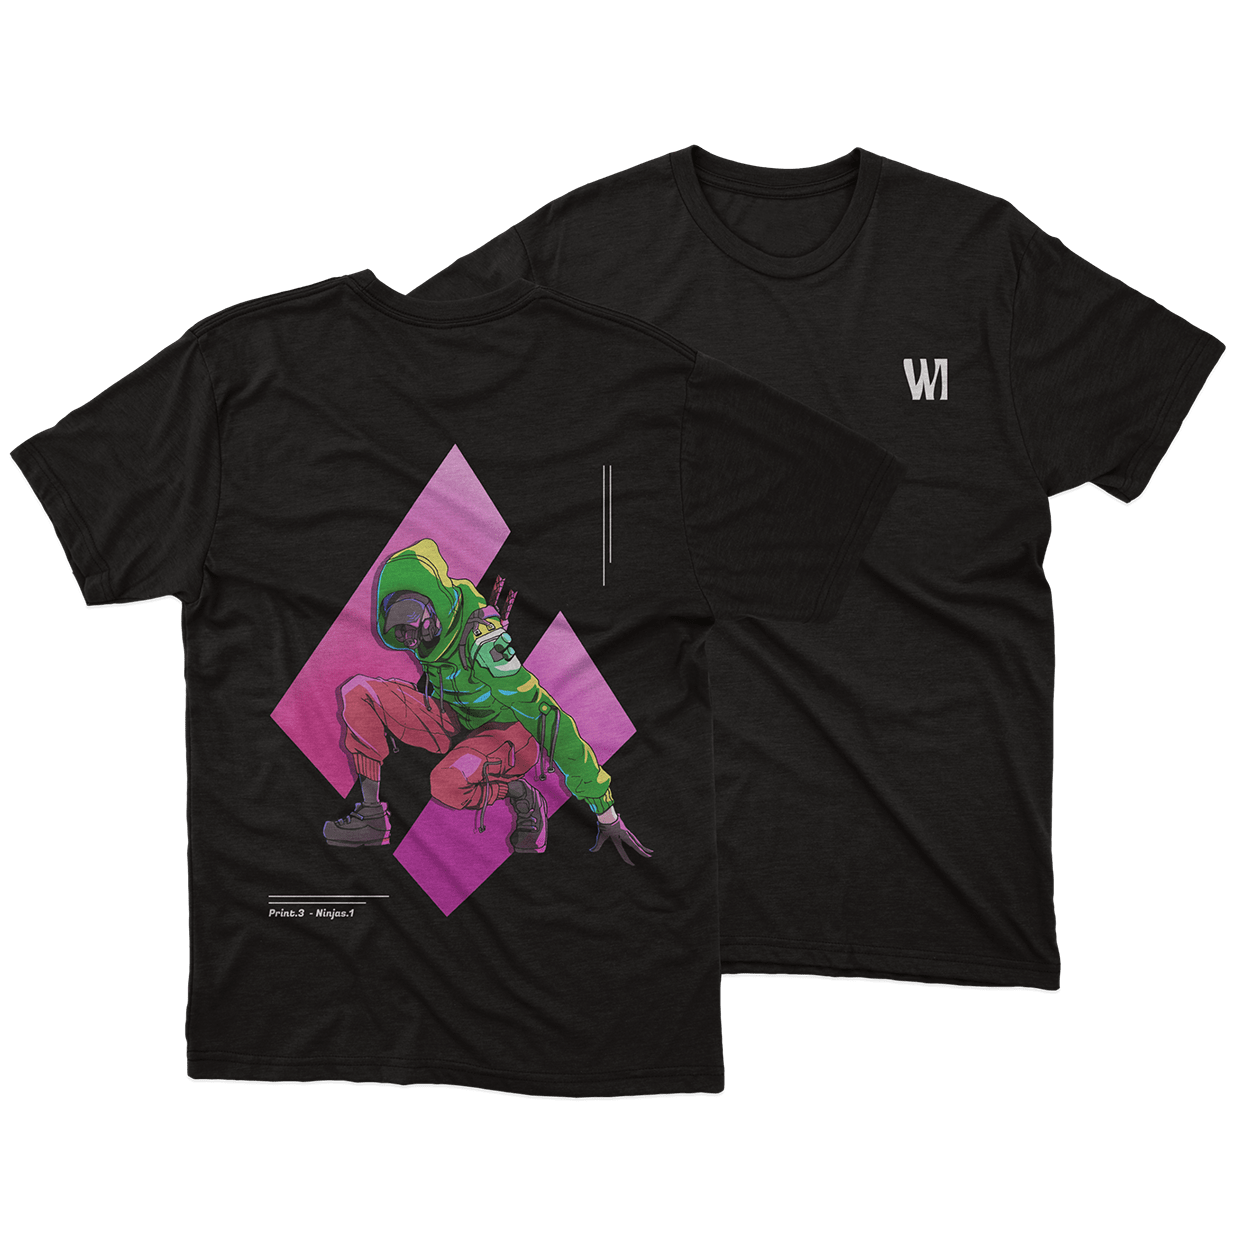
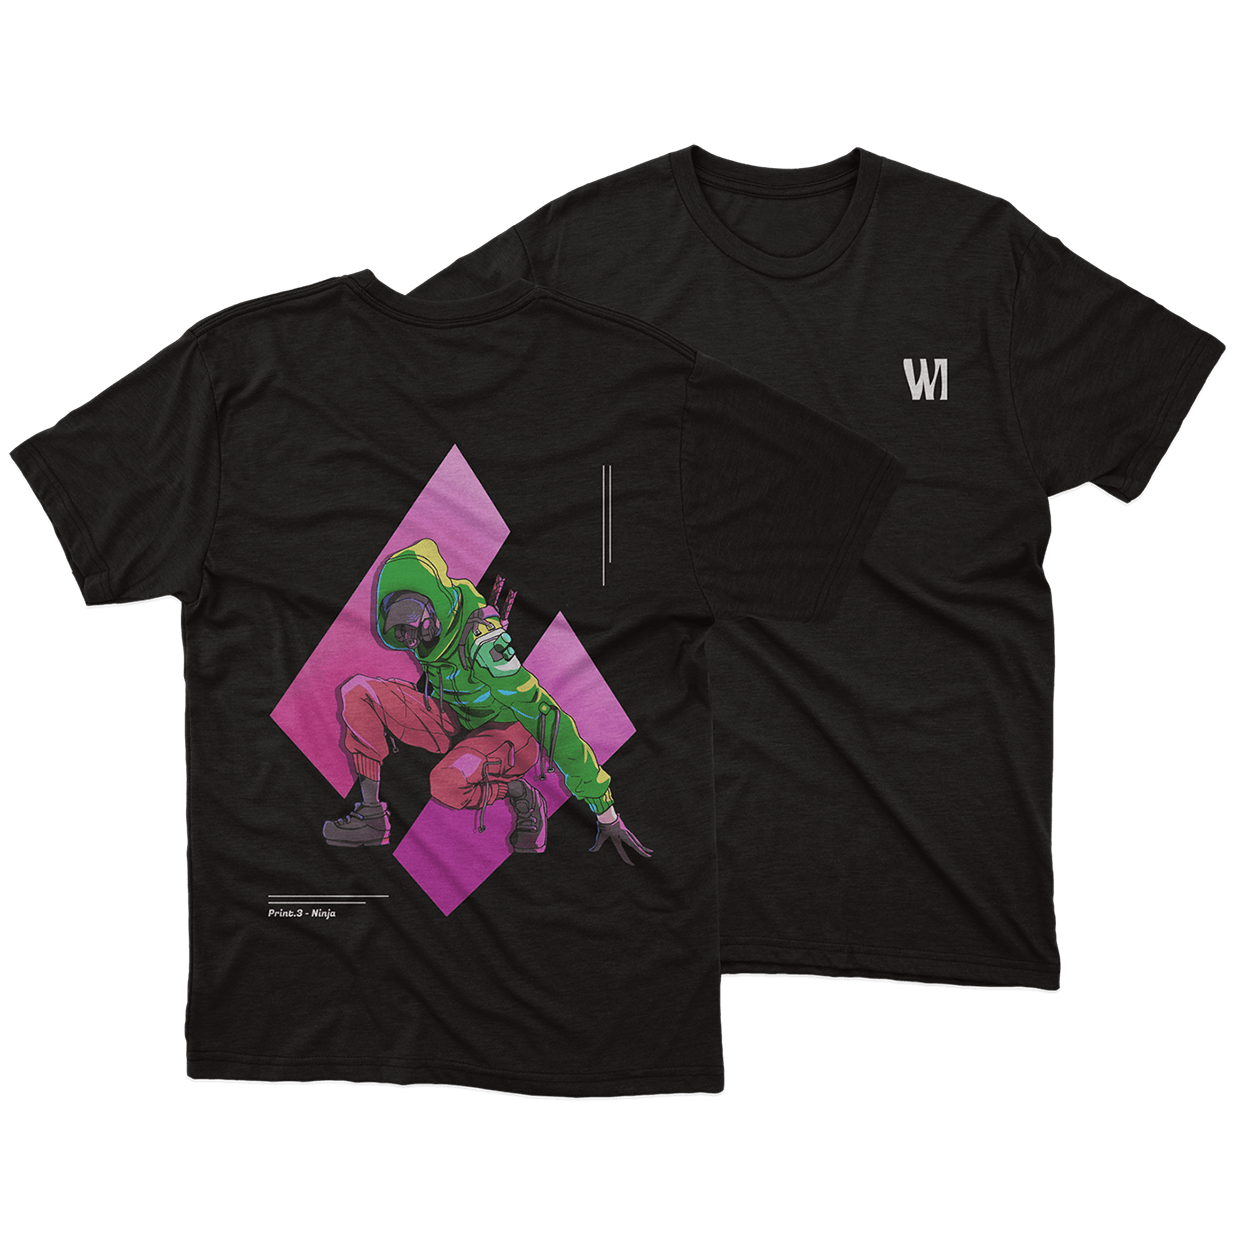
update products

Changed region(s): [[0.3368, 0.4903, 0.3981, 0.521], [0.2756, 0.6129, 0.3062, 0.6435], [0.245, 0.7355, 0.2756, 0.7661]]

diff --git a/src/pages/home.jsx b/src/pages/home.jsx
@@ -11,7 +11,7 @@ function Home() {
 
   const products = [
     {
-      name: 'Ninja Girl - print.1',
+      name: 'Print.1 - Red Circle',
       spesifications: {
         material: 'Cotton Combad 30s',
         color: 'Black, White',
@@ -19,14 +19,14 @@ function Home() {
       },
       tShirt:
         colorMode === 'dark'
-          ? process.env.PUBLIC_URL + '/images/black-ninja-girl-FB.png'
-          : process.env.PUBLIC_URL + '/images/white-ninja-girl-FB.png',
-      price: 'Rp 100.000,-',
-      discountedPrice: 'Rp 90.000,-',
+          ? process.env.PUBLIC_URL + '/images/black-red-circle-FB.png'
+          : process.env.PUBLIC_URL + '/images/white-red-circle-FB.png',
+      price: 'Rp 110.000,-',
+      discountedPrice: 'Rp 89.900,-',
       isDiscount: true,
     },
     {
-      name: 'Masker Girl - print.2',
+      name: 'Print.2 - Masker Girl',
       spesifications: {
         material: 'Cotton Combad 30s',
         color: 'Black, White',
@@ -36,12 +36,12 @@ function Home() {
         colorMode === 'dark'
           ? process.env.PUBLIC_URL + '/images/black-masker-girl-FB.png'
           : process.env.PUBLIC_URL + '/images/white-masker-girl-FB.png',
-      price: 'Rp 100.000,-',
-      discountedPrice: 'Rp 90.000,-',
+      price: 'Rp 110.000,-',
+      discountedPrice: 'Rp 89.900,-',
       isDiscount: true,
     },
     {
-      name: 'Ninja - print.3',
+      name: 'Print.3 - Ninja',
       spesifications: {
         material: 'Cotton Combad 30s',
         color: 'Black, White',
@@ -51,8 +51,8 @@ function Home() {
         colorMode === 'dark'
           ? process.env.PUBLIC_URL + '/images/black-ninja-FB.png'
           : process.env.PUBLIC_URL + '/images/white-ninja-FB.png',
-      price: 'Rp 100.000,-',
-      discountedPrice: 'Rp 90.000,-',
+      price: 'Rp 110.000,-',
+      discountedPrice: 'Rp 89.900,-',
       isDiscount: true,
     },
   ];
